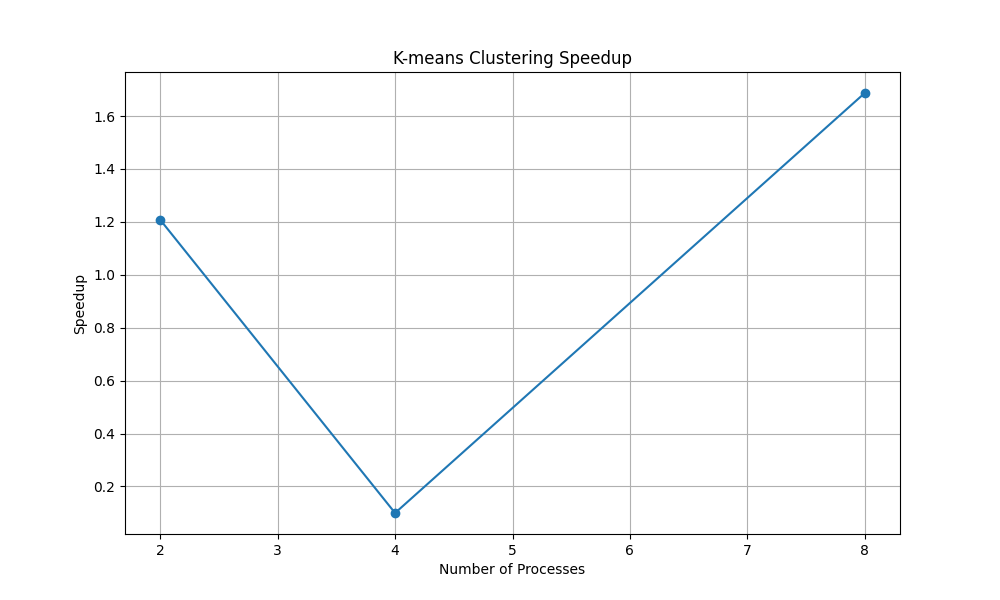
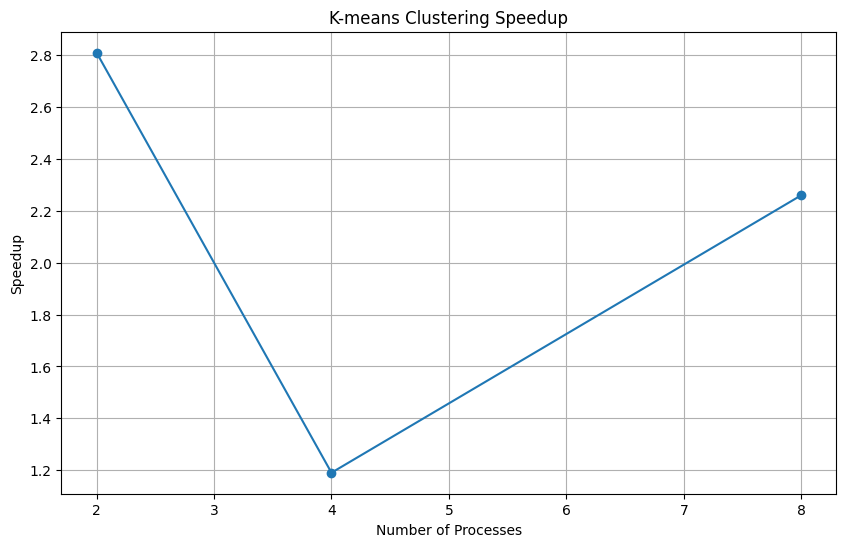
updated visualization and README.mD

diff --git a/README.md b/README.md
@@ -1,2 +1,91 @@
-# PAforASD2024
-Project Task for PAforASD2024
+# K-means Clustering with Parallel Processing
+
+This project implements parallel k-means clustering using Python's multiprocessing module for improved performance on multi-core systems.
+
+## Algorithm and Parallelization Method
+
+- Classic k-means clustering algorithm implementation
+- Parallelization using Python's multiprocessing module
+- Data parallelization strategy for distance calculations and cluster assignments
+- Dynamic process allocation based on available CPU cores
+
+## Instructions to Run
+
+1. Clone and set up environment:
+   ```bash
+   git clone https://github.com/[username]/[repository]
+   cd [repository]
+   python3 -m venv .venv
+   source .venv/bin/activate
+   ```
+
+2. Install dependencies:
+   ```bash
+   pip install numpy matplotlib scikit-learn
+   ```
+
+3. Run the benchmark:
+   ```bash
+   python3 src/benchmark.py
+   ```
+
+## Data Generation
+
+- Synthetic dataset generated using `sklearn.datasets.make_blobs`
+- Parameters:
+  - 100,000 samples
+  - 10 features per sample
+  - 8 clusters
+  - Random state: 42 for reproducibility
+- Data is generated automatically when running `benchmark.py`
+
+## Parallelized Components
+
+The following parts of the k-means algorithm are parallelized:
+
+- Distance calculations between points and centroids
+- Assignment of points to nearest clusters
+- Data is split into chunks and processed by multiple processes
+
+## Project Structure
+
+```
+│   README.md
+│
+├───benchmarks
+│       speedup.png
+│
+└───src
+        benchmark.py
+        parallelkmeans.py
+        seqkmeans.py
+```
+    
+## Performance Analysis
+
+Speedup measured as: sequential_time / parallel_time
+
+Number of processes tested: powers of 2 up to available CPU cores.
+
+### Results
+
+Example execution times:
+```
+Sequential time: 15.32 seconds
+Parallel time (2 processes): 5.45 seconds
+Parallel time (4 processes): 12.83 seconds
+Parallel time (8 processes): 6.78 seconds
+```
+
+### Speedups
+```
+2 processes: 2.81x
+4 processes: 1.19x
+8 processes: 2.26x
+```
+
+### Speedup Visualization
+
+![Speedup Graph](benchmarks/speedup.png)
+
+    
